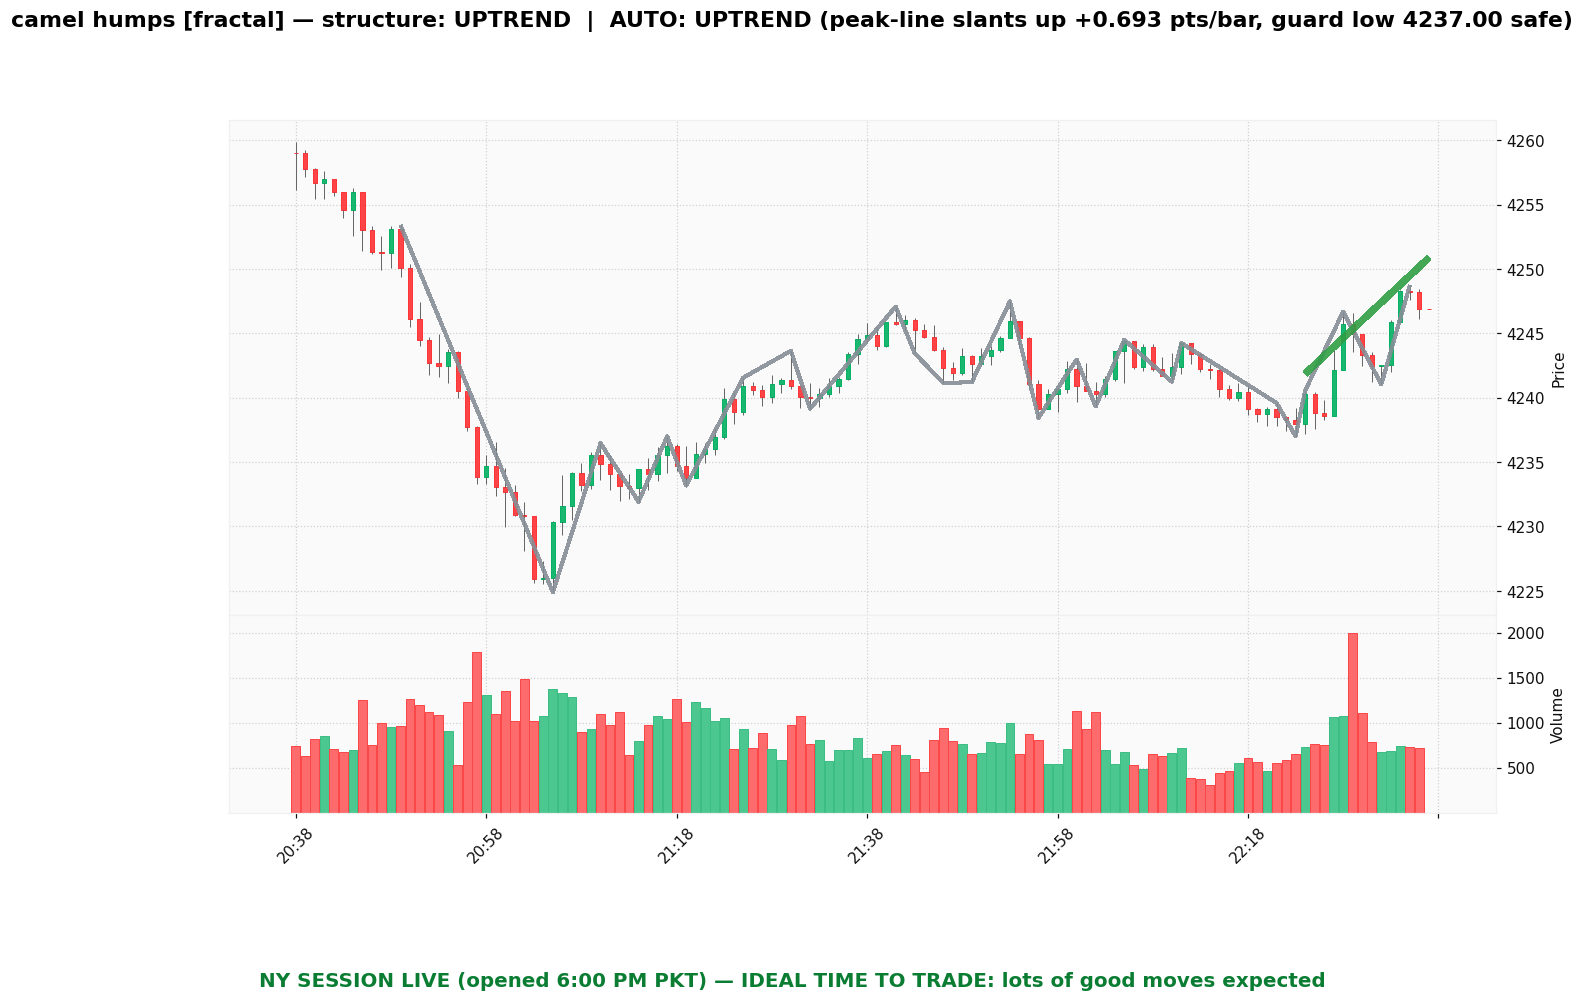
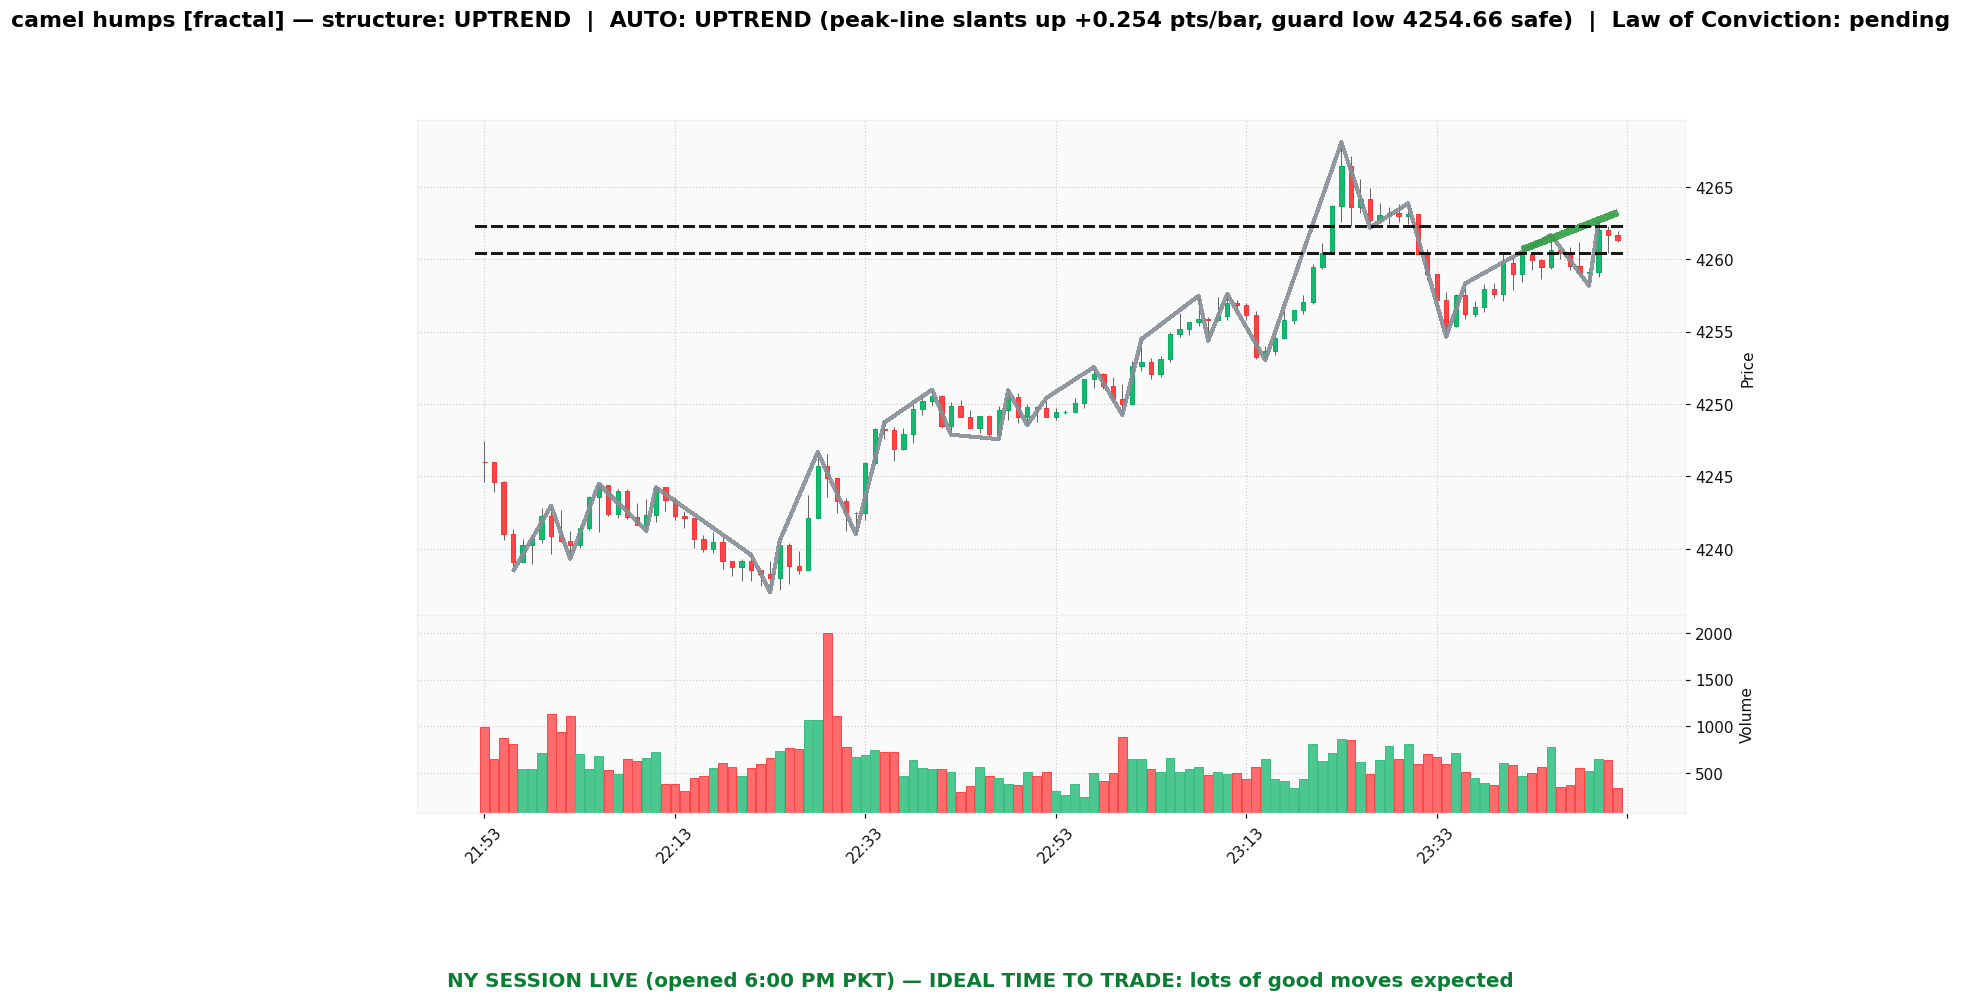
❤ PROBATION MARK: laws still earning their diamond (Law 6 Selling-Climax) draw a red heart beside the diamonds on cockpit+web — 'this setup has a chance greater than others' — but grant no lots/raids until the 3-day exam promotes them

diff --git a/dashboard/claude_trader/status.html b/dashboard/claude_trader/status.html
@@ -1569,7 +1569,8 @@ async function loadGhost() {
                  (g.watch.law2 ? ' · <b>2nd Law NS/ND ✅</b>' : '') +
                  (g.watch.law3 ? ' · <b>3rd Law EMA5 ✅</b>' : '') +
                  (g.watch.law4 ? ' · <b>4th Law RSI divergence ✅</b>' : '') +
-                 (g.watch.law5 ? ' · <b>5th Law wick/volume ✅</b>' : ''));
+                 (g.watch.law5 ? ' · <b>5th Law wick/volume ✅</b>' : '') +
+                 (g.watch.law6 ? ' · <b style="color:#e03131">❤ Law 6 Selling-Climax (probation)</b>' : ''));
     else
       parts.push('no UHV boxed right now — hunting');
     parts.push(g.armed ? '🚪 ghost AT THE DOOR (fires on tick-cross)' : '👻 ghost watching');

diff --git a/monitor/oanda_live_matcher.py b/monitor/oanda_live_matcher.py
@@ -134,6 +134,23 @@ def stretch_of(bars, lvl, side):
     return (highs[-1].price - lvl) if highs else 0.0
 
 
+def law6_probation(bars, u, side):
+    """LAW 6 IN PROBATION (Zee 2026-08-05): Selling-Climax UHV — heavy counter-trend
+    VOLUMES before the UHV (2+ bars >= avg20) + big-spread UHV (>=1.5x avg range).
+    Day-1 exam PASSED (+0.54 vs +0.30 avg/trade); needs 3 passing days to become a
+    diamond. Until then it grants NO lots/raids — only a heart on the chart:
+    'this setup has a chance greater than others.'"""
+    look = bars[max(0, u - 20):u]
+    if not look: return 0
+    avg_v = sum(b.v for b in look) / len(look)
+    avg_r = sum(b.h - b.l for b in look) / len(look)
+    prev = bars[max(0, u - 4):u]
+    col = (lambda b: b.is_bear) if side == "BUY" else (lambda b: b.is_bull)
+    heavy = sum(1 for b in prev if col(b) and b.v >= avg_v)
+    U = bars[u]
+    return int(heavy >= 2 and (U.h - U.l) >= 1.5 * avg_r)
+
+
 DEAD_TAPE_FRAC = 0.50  # DEAD-TAPE SELECTIVITY (Zee 2026-08-05, shipped on his word):
                         # when the last 10 bars' average volume falls below half the
                         # session's average, only diamond-bearing setups may enter —
@@ -306,7 +323,7 @@ def find_armed(bars):
         if humble:
             lots = 0.10                            # stretched top/bottom: humble size
         found.append(dict(side=side, level=round(lvl, 2), lots=lots, chase=chase,
-                          humble=humble,
+                          humble=humble, law6=law6_probation(bars, best, side),
                           sweep=round(sweep_line, 2), swept=int(sw), law2=law2,
                           law3=law3, law4=law4, law5=law5, sl=round(sl_px, 2),
                           key=f"{side}_{U.t}_{round(lvl, 2)}",
@@ -372,7 +389,7 @@ def write_armed(bars):
     # the cockpit chart while the sweep is pending, solid once concrete.
     if w is not None:
         WATCH.write_text(json.dumps({k: w[k] for k in
-                                     ("side", "level", "sweep", "swept", "law2", "law3", "law4", "law5")}
+                                     ("side", "level", "sweep", "swept", "law2", "law3", "law4", "law5", "law6")}
                                     | {"ts": int(time.time())}),
                          encoding="ascii")
     # ARM the nearest hunting-side setup — the Laws do NOT gate the apparition
@@ -465,7 +482,8 @@ def main():
                 if a and a["key"] != last_armed_key:
                     d = (int(a["swept"]) + int(a.get("law2", 0)) + int(a.get("law3", 0))
                          + int(a.get("law4", 0)) + int(a.get("law5", 0)))
-                    print(f"[oanda_matcher] {'💎' * d or 'no diamonds'} — "
+                    hearts = " ❤(L6 probation)" if a.get("law6") else ""
+                    print(f"[oanda_matcher] {'💎' * d or 'no diamonds'}{hearts} — "
                           f"{a['side']} lamp @{a['level']} sweep line @{a['sweep']} "
                           f"lots={a['lots']:.2f} raids allowed={a.get('raids', 1)}")
                 last_armed_key = a["key"] if a else None

diff --git a/monitor/trend_eyes.py b/monitor/trend_eyes.py
@@ -331,6 +331,12 @@ def draw(bars, back=120, out=None):
         n_laws = (int(bool(wd.get("swept"))) + int(bool(wd.get("law2")))
                   + int(bool(wd.get("law3"))) + int(bool(wd.get("law4")))
                   + int(bool(wd.get("law5"))))
+        # ❤ PROBATION MARK (Zee): laws still earning their diamond (Law 6 Selling
+        # Climax) draw a red heart beside the diamonds — "this setup has a chance
+        # greater than others" — but grant no money until promoted.
+        if wd.get("law6"):
+            heart_xy = (len(df) - 3 - n_laws * 2,
+                        max(wd["level"], wd["sweep"]) + 0.6)
         if n_laws:
             _dpos = [len(df) - 3 - d * 2 for d in range(n_laws)]
             _dpos = [p for p in _dpos if 0 <= p < len(df)]
@@ -346,8 +352,12 @@ def draw(bars, back=120, out=None):
                                                  edgecolors="#8a6d00")
     except Exception:
         pass
+    heart_xy = locals().get("heart_xy")
     kw["returnfig"] = True
     fig, _axes = mpf.plot(df, **kw)
+    if heart_xy:
+        _axes[0].text(heart_xy[0], heart_xy[1], "♥", fontsize=26,
+                      color="#e03131", ha="center", va="center")
     if diamonds_png:
         from matplotlib.offsetbox import OffsetImage, AnnotationBbox
         import matplotlib.image as mimg

diff --git a/LOSS_LEDGER.md b/LOSS_LEDGER.md
@@ -235,3 +235,19 @@ NEW SPECIES ⚠ = unexplained — Claude investigates before anything else is bu
 - EA fire: `[CaseExec] GHOST-DOOR #1785947542 BUY raid 1/3 lamp 4241.03 lots=0.10 chase=1.0 ghost=1.00pt`
 - ghost exit at design distance (-0.04pt vs 1.0 cap) — bounded toll
 - slope +0.33 aligned; AUTO said UPTREND — entry direction was legitimate
+
+---
+
+## 2026.08.05 20:49:35 (broker) — BUY 0.10 · **-15.80** (-1.58pt) — **KNOWN SPECIES**
+
+- EA fire: `[CaseExec] GHOST-DOOR #1785951738 BUY raid 1/6 lamp 4250.61 lots=0.10 chase=1.0 ghost=1.00pt`
+- ghost exit with 0.58pt SLIPPAGE beyond design (fast tape/thin book)
+- slope +0.45 aligned; AUTO said UPTREND — entry direction was legitimate
+
+---
+
+## 2026.08.05 20:57:40 (broker) — BUY 0.10 · **-11.70** (-1.17pt) — **KNOWN SPECIES**
+
+- EA fire: `[CaseExec] signal #1785952628 BUY lots=0.10 ghost=1.00pt stackable parachute=4249.37`
+- ghost exit with 0.17pt SLIPPAGE beyond design (fast tape/thin book)
+- slope +0.22 aligned; AUTO said UPTREND — entry direction was legitimate
